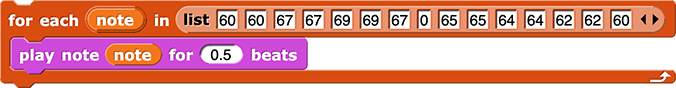
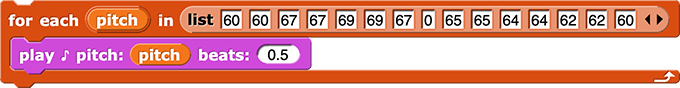
2.1 - in progress (mostly page 5)

Changed region(s): [[0.0311, 0.0, 1.0, 0.4318], [0.0311, 0.4318, 0.466, 0.7955], [0.963, 0.7955, 1.0, 0.9545]]

diff --git a/middle-school/student-pages/U2/L1/05-beat-repeat.html b/middle-school/student-pages/U2/L1/05-beat-repeat.html
@@ -3,143 +3,137 @@
 	<head>
 		<meta http-equiv="content-type" content="text/html; charset=utf-8" />
 		<script type="text/javascript" src="/bjc-r/llab/loader.js"></script>
-		<title>Unit 2 Lab 1: Song Player, Activity 2</title>
+		<title>Unit 2 Lab 1: Song Player, Activity 5</title>
 	</head>
 
 	<body>
+		<div class="todo"><h1>The first activity on this page is ready (enough) for review. --MF, 2/12/22</h1></div>
 		<h2>Beat Repeat</h2>
-		<div class="todo"><h1><em><strong>Not</strong></em> ready for review from here on...</h1></div>
-		<div class="todo">"iteration": <code>repeat</code>, <code>forever</code>, nested loops, <code>for each</code> 2-AP-12</div>
+		<div class="todo">I love this name, but I don't think it goes well with this particular page anymore. Thoughts? --MF, 2/12/22</div>
 		<div class="todo">
 			<ul>
 				<li><a href="https://docs.google.com/document/d/1ZGj6uApQUyQw3HByk-8tYOU-VPTwduLLbTMhW8LJrXw/edit#" title="Song Player Google Doc" target="_blank">Song Player Google Doc</a></li>
 				<li><a href="https://localhost/bjc-r/cur/programming/3-lists/optional-projects/4-music-project.html?topic=nyc_bjc%2F3-lists.topic&course=bjc4nyc.html&novideo&noassignment" title="CSP Optional Music Project" target="_blank">CSP Optional Music Project</a></li>
 			</ul>
 		</div>
-		<div class="todo">
-			TEACH on PAGE 2:<br />
-			<ol>
-				<li>FOREVER</li>
-				<li>FOR EACH</li>
-				<li>globals to store songs (as lists of notes)</li>
-				<li>set variable</li>
-			</ol>
-		</div>
 
-		<div class="learn"></div>
+		<div class="learn">In this activity, you will use a list to store the pitches of a song.</div>
 		<div class="forYouToDo">
 			<ol>
 				<li>If your project isn't open already, log in to Snap!, and open your "Song Player" project.</li>
 			</ol>
 		</div>
-		<p>Using the <code>repeat</code> block strategically can make your code shorter and easier to read. It's generally ideal to write shorter code that is easier to read because when something isn't working right, it's easier to find and fix the problem.</p>
+		<p>Using the <code>repeat</code> block strategically can make your code shorter and easier to read. It's generally a good idea to write shorter code that is easier to read because when something isn't working right, it's easier to find and fix the problem, or when you want to change it later or have someone else read it, that's easier too.</p>
 		<p>
 			<img class="imageRight nopadtb" src="/bjc-r/img/blocks/for-each.png" alt="for each (item) in 'list input slot' {
 }" title="for each (item) in 'list input slot' {
 }" />
 			Another way to simplify writing a song is to use a list to store the notes and then play each note in the list. You can use <code>for each</code> to run a command (or group of commands) for each item in a list. For example: <br />
-			<a class="js-run-v7 snap-project" href="/bjc-r/middle-school/prog/U2/lab01/example-for-each.xml" title="Example of For Each - Snap! project" target="_blank"><img class="indent" src="/bjc-r/middle-school/img/U2/lab01/example-for-each.png" alt="for each (note) in (list (60) (60) (67) (67) (69) (69) (67) (0) (65) (65) (64) (64) (62) (62) (60) (0)) {
-	play note (note) for (0.5) beats
-}" title="for each (note) in (list (60) (60) (67) (67) (69) (69) (67) (0) (65) (65) (64) (64) (62) (62) (60) (0)) {
-	play note (note) for (0.5) beats
+			<a class="js-run-v7 snap-project" href="/bjc-r/middle-school/prog/U2/lab01/example-for-each.xml" title="Example of For Each - Snap! project" target="_blank"><img class="indent" src="/bjc-r/middle-school/img/U2/lab01/example-for-each.png" alt="for each (pitch) in (list (60) (60) (67) (67) (69) (69) (67) (0) (65) (65) (64) (64) (62) (62) (60) (0)) {
+	play ♪ pitch: (pitch) beats: (0.5)
+}" title="for each (pitch) in (list (60) (60) (67) (67) (69) (69) (67) (0) (65) (65) (64) (64) (62) (62) (60) (0)) {
+	play ♪ pitch: (pitch) beats: (0.5)
 }" /></a>
 		</p>
 		<div class="forYouToDo">
 			<ol start="2">
-				<li>Create a simple song using <code>for each</code>.
+				<li>
+					Create a simple song using <code>for each</code>.
 					<ol>
 						<li>Drag a <code>for each</code> block into the scripting area.</li>
 						<li>Drag a <code>play ♪</code> block inside it.</li>
-						<li>Rename the <var>item</var> variable to <var>note</var> by clicking it, typing the new name, and clicking "OK."</li>
-						<li>Drag the <var>note</var> variable into the first input of the <code>play ♪</code> block.</li>
-						<li>Drag a <code>list</code> block into the list input slot of the <code>for each</code> block, add some notes, and click the script to test out your song as you build it.</li>
+						<li>
+							Rename the <var>item</var> variable to <var>pitch</var> by clicking it, typing the new name, and clicking "OK."
+							<div class="todo">An animation would be nice here one day. --MF, 2/11/22</div>
+						</li>
+						<li>Drag the <var>pitch</var> variable into the first input of the <code>play ♪</code> block. Dragging will make a copy of <var>pitch</var>, so you should see <var>pitch</var> in both places</li>
+						<li>
+							Drag a <code>list</code> block into the list input slot of the <code>for each</code> block, add some notes, and click the script to test out your song as you build it.
+							<div class="todo">An animation here too would be nice here one day. --MF, 2/11/22</div>
+						</li>
+						<div class="endnote">If you want to add or remove a pitch from your list, you don't have to move the other numbers around. To add a new slot, right-click the place where you want it to appear, and select "insert a slot." To remove a slot, right-click it, and select "delete slot." </div>
 					</ol>
 				</li>
+				<li>Create a new command block called <code>play song</code> that takes a list of notes as input and plays each note in the list.<div class="todo">I still need to add some scaffolding here about using the FOR EACH code they already have, removing the existing list, and dragging in the local var. --MF, 2/12/22</div></li>
 			</ol>
 		</div>
+		<div class="learn">In this activity, you used <code>for each</code> to play each pitch in a list.</div>
 		
-		<div class="todo">Maybe do transpose before the ADT and then let the ADT stuff be optional pages becuase it gets complex with the transpose mixed in.</div>
-
 		
+		
+		<div class="todo">
+			<h1><em><strong>Not</strong></em> ready for review from here on, but...</h1>
+			<p>Pamela, you might like to skim around. I'm debating whether to teach the ADT first so they can traverse a 2D list or to show them how to use MAP to transpose first. I'm leaning toward MAP first and letting 2D lists/ADTs be a later optional page (perhaps not even to be written now or perhaps just a "Take It Further" on the last page) since the goal of the course is functional, and MAP would align with that. There is no real need to teach ADTs although the context does naturally inspire it. --MF, 2/12/22</p>
+		</div>
 		<div class="todo"><hr /><h1>New Page</h1><hr /></div>
-		<div class="todo">introduce this ADT business</div>
-		<h2>Coordinating Data</h2>
-		<p>You've used the <code>for each</code> block to traverse a list and to <code>play ♪</code> for each note in a list, but it would be nice to be able to control the number of <var>beats</var> for which each note plays.</p>
-		<p>You can use the <code>note beat</code> block to store a bunch of notes and beats togther and 
-	
-
-
-
-		<div class="todo">Then have them build a <code>play notes</code> block</div>
-
-		<p>Another advantage of using a list to store your notes rather than a long set of <code>play ♪</code> blocks is that you can use higher order functions to process your list.</p>
-		<div class="todo">Building the transpose block...</div>
-
-
-
-		
-
-
-		<div class="todo">PAGE 2</div>
-
-		<p>It's playing the same note multiple times, right? That's because we need to tell the <code>play ♪</code> to play the current item from the list, not whatever number is in the dropdown now.</p>
+		<h2>Using Variables</h2>
+		<div class="todo">
+			TO TEACH:<br />
+			<ol>
+				<li>globals to store songs (as lists of notes)</li>
+				<li>set variable</li>
+			</ol>
+		</div>
+		<div class="learn">In this activity, you will use a variable to store a list of notes.</div>
+		<p>
+			In the <a href="/bjc-r/middle-school/student-pages/U1/L2/03-creating-editing-blocks.html?topic=middle-school%2F1-functions-data.topic&course=middle-school.html" title="Unit 1 Lab 2: Super Short Stories, Activity 3: Creating and Editing Blocks" target="_blank">Super Short Stories</a> lab, you began using <em>local variables</em> to access the inputs to a block you were editing. Those variables were only available within that block. When you need a variable to be available anywhere in your project, you can use a <em>global variable</em>.<br />
+			<img class="indent" src="/bjc-r/middle-school/img/U1/lab02/super-short-story-block-editor.png" alt="Super Short Story, feeling: (feeling) job: (job) action: (action 1) place: (place) action: (action 2) number: (number #) color: (color) plural animal: (animals) food: (food): {report (join words ('The') (feeling) (job) (action 1) ('through') (place) ('and') (action 2) ('over') (number) (color) (animals) ('eating') (food))}" title="Super Short Story, feeling: (feeling) job: (job) action: (action 1) place: (place) action: (action 2) number: (number #) color: (color) plural animal: (animals) food: (food): {report (join words ('The') (feeling) (job) (action 1) ('through') (place) ('and') (action 2) ('over') (number) (color) (animals) ('eating') (food))}" /><br />
+		</p>
+        <div class="vocabFullWidth">: <strong>Global Variable</strong>
+            <p>A <strong>global variable</strong> is a variable that is usable by all scripts in the program.</p>
+        </div>
+		<p>You can use a global variable to store the notes to a song.<br />
+		<img class="" src="/bjc-r/middle-school/img/U2/lab01/" alt="" title="" />
+		</p>
 		<div class="forYouToDo">
-			<ol start="5">
-				<li>
-					To do that, drag <var>item</var> from the <code>for each</code> block into that first input parameter. It'll actually make a copy of the block, so you should see <var>item</var> in both places:<br />
-					<img class="" src="/bjc-r/middle-school/img/U1/lab06/" alt="for each (item) in (list (60, 60, 67, 67, 69, 69, 67)) {
-	play note (item) for (0.5) beats
-}" title="for each (item) in (list (60, 60, 67, 67, 69, 69, 67)) {
-	play note (item) for (0.5) beats
-}" />
-				</li>
-				<li>Click it now! Do you hear a little Twinkle, Twinkle? Woo! 🎉 ⭐ 🤩</li>
-			</ol>
-		</div>
-	
-		<h3>Making a new command block</h3>
-	<p>Now that we have this neat seat of blocks for playing multiple notes, let's turn that into a block so that we can easily play lines of different songs.</p>
-	<div class="forYouToDo">
 			<ol>
+				<li>If your project isn't open already, log in to Snap!, and open your "Song Player" project.</li>
 				<li>
-					Click "Make a block" in the left-hand side to bring up the new block editor.<br />
-					<img class="" src="/bjc-r/middle-school/img/U1/lab06/" alt="" title="" />
+					Create a global variable to store your song. Here's how.
+					<div class="narrower">
+						<h4><strong>Making a Global Variable</strong></h4>
+						<div class="todo">Still needs edits --MF, 2/12/22</div>
+						<ol type="a">
+							<li>Click <img class="inline" src="/bjc-r/img/1-introduction/make-a-variable.png" alt="make a variable button" title="make a variable button" />  in the Variables palette.  (It's not a block; you can't drag it into the scripting area.)</li>
+							<li>Type the title for your variable. (Use the name of the song or something else to help you remember it.)</li>
+							<li>Click "OK."</li>
+						</ol>
+					</div>
 				</li>
-				<li>Enter a name for the block, like "play line". Make sure "Command" is selected below the name, then click OK.</li>
-				<li>
-					Now the block editor should pop up. First the block needs an input parameter, the list of notes to play. Click the plus sign at the end of the name. <br />
-					<img class="" src="/bjc-r/middle-school/img/U1/lab06/" alt="" title="" />
-				</li>
-				<li>Type a name for the parameter like "notes". Make sure "Input name" is selected below the name, then click OK.</li>
-				<li>The inside of the block is still empty, so it doesn't yet know what to do with the notes input. Drag the <code>for each</code> block from the main area into the block editor and attach it under the block header. It should snap in place.</li>
-				<li>
-					The <code>for each</code> is still playing the notes from Twinkle, Twinkle, but this block should be able to play any list of notes. Delete the current list of notes and drag the input parameter into that block instead. It should look like this:<br />
-					<img class="" src="/bjc-r/middle-school/img/U1/lab06/" alt="" title="" />
-				</li>
-				<li>Leave the block editor so that you can try out your new block! Drag a copy into the main area and put a list of notes in the blank.</li>
-				<li>Here's the Twinkle, Twinkle sequence again (enter the numbers without the spaces and dashes): <pre>60 60 67 67 69 69 67</pre></li>
-				<li>Click the block and you should hear the notes being played out. 🎶</li>
+				<li>Use your global variable in your <code>play song</code> block.</li>
+				<li>Make another global var song.</li>
+				<li>Show/hide global vars with show/hide blocks.</li>
+			<div class="todo">
+				These need alt-title text, but this is the general idea...<br />
+				<img class="indent" src="/bjc-r/middle-school/img/U2/lab01/set-mary-lamb.png" alt="" title="" /><br />
+				<img class="indent" src="/bjc-r/middle-school/img/U2/lab01/play-song-mary-lamb.png" alt="" title="" /><br />
+				Next page...<br />
+				<img class="indent" src="/bjc-r/middle-school/img/U2/lab01/play-song-map-mary-lamb.png" alt="" title="" />
+			</div>
+				
 			</ol>
 		</div>
-		<p>By making the block, you've <em>generalized</em> the procedure of playing a sequence of notes. That means you can easily play any sequence of notes, and all you have to do is drag another copy of your new block.</p>
 		<div class="ifTime show">
-			<ol>
+			<ol start="6">
 				<li>
-					Here are more sequences of notes to try out (enter the numbers without the spaces and dashes):
+					Here are more sequences of notes to try out (enter the numbers without the spaces):
 					<pre>65 65 64 64 62 62 60</pre>
 					<pre>64 62 60 62 64 64</pre>
 				</li>
 				<li>If you or your classmates are musically inclined, you can come up with more sequences to play!</li>
-				<li></li>
 			</ol>
 		</div>
-	
-		<h3>Transforming note sequences</h3>
+		<div class="learn">In this activity, you stored notes in variables and...</div>
+
+		
+		<div class="todo"><hr /><h1>New Page</h1><hr /></div>
+		<h2>Song <code>Map</code>per</h2>
+		<p>Another advantage of using a list to store your notes rather than a long set of <code>play ♪</code> blocks is that you can use higher order functions to process your list.</p>
 		<p>In music, notes are part of a scale, and a song can be played higher up a scale or lower down a scale. So if someone naturally has a deep voice, they can sing Twinkle, Twinkle at an octave lower than usual, or if someone has a high voice, they can sing at an octave higher than usual.</p>
 		<p>Each octave is 12 notes higher than the previous octave, since there are 12 notes in a scale. So we can add 12 to each note to find the higher version of the note, or subtract 12 to find the lower.</p>
 		<p>This is a perfect opportunity to use the <code>map</code> block. It's a block that operates on lists, applying an operation to each item in a list, and reporting back a list with the transformed items.</p>
 		<div class="forYouToDo">
-			<ol start="13">
+			<ol start="1">
 				<li>Drag the <code>map</code> block into the main area. Drag one of your note sequence lists into the list icon on the block, so the <code>map</code> block knows what list it's transforming.</li>
 				<li>
 					Now the question is, how do you want to transform each note? You can put any operation in the first blank, anything that reports a value. I suggest either a <code>+</code> block or <code>-</code> block. Leave one of the blanks empty and put 12 in the other blank. Something like this:<br />
@@ -148,6 +142,16 @@
 				<li>Finally, drag this whole map block into one of the play line blocks. Click the block to hear what happens. Change the + to a -, or change the amount being added/subtracted, and click again to hear the difference. Try it with your other songs too!</li>
 			</ol>
 		</div>
+		
+		<div class="todo"><hr /><h1>New Page? Or a "Take It Further"?</h1><hr /></div>
+		<h2>Coordinating Data</h2>
+		
+		<div class="todo">Maybe do transpose before the ADT and then let the ADT stuff be optional pages because it gets complex with the transpose mixed in.</div>
+		<p>You've used the <code>for each</code> block to traverse a list and to <code>play ♪</code> for each note in a list, but it would be nice to be able to control the number of <var>beats</var> for which each note plays.</p>
+		<p>You can use the <code>note beat</code> block to store a bunch of notes and beats together and 
+	
+
+		
 
 		<div class="learn"></div>
 	

diff --git a/middle-school/student-pages/U2/L1/03-programming-styles.html b/middle-school/student-pages/U2/L1/03-programming-styles.html
@@ -56,10 +56,10 @@ play ♪ pitch: (59) beats: (0.5)
 
 		<div class="forYouToDo">
 			<ol>
+				<div class="comment">Note to Mary for later: Older instantiations of this image in <a href="/bjc-r/middle-school/student-pages/U1/L2/02-refining-the-story.html?topic=middle-school%2F1-functions-data.topic&course=middle-school.html" title="Unit 1 Lab 2 Activity 2: Refining the Story">Sparks 1.2.2</a> and <a href="/bjc-r/cur/programming/1-introduction/2-gossip-and-greet/4-making-a-new-block.html?topic=nyc_bjc%2F1-intro-loops.topic&course=bjc4nyc.html&novideo&noassignment">CSP 1.2.4</a> need to be updated for the new palette list ordering. Also the "text box label 'Type a title for your block'" and "label 'Select a shape'" are both gone now. And "with no label of which 'for all sprites' is selected" could be deleted. --MF, 2/9/22</div><img class="imageRight noshadow" src="/bjc-r/middle-school/img/U2/lab01/make-a-block-mystery-song-labels.png" alt="image of 'Make a block' dialog box with 10 palette menus (Motion, Looks, Sound, Pen, Other, Control, Sensing, Operators, Variables, Lists) of which Sound is selected; a text box in which 'mystery song' has been written; three block shape options (puzzle-shaped/'Command', oval/'Reporter', and hexagonal/'Predicate') of which 'Command' is selected; two radio boxes ('for all sprites', which is checked, and 'for this sprite only', which is not checked); and two buttons ('OK' and 'Cancel')" title="image of 'Make a block' dialog box with 10 palette menus (Motion, Looks, Sound, Pen, Other, Control, Sensing, Operators, Variables, Lists) of which Sound is selected; a text box in which 'mystery song' has been written; three block shape options (puzzle-shaped/'Command', oval/'Reporter', and hexagonal/'Predicate') of which 'Command' is selected; two radio boxes ('for all sprites', which is checked, and 'for this sprite only', which is not checked); and two buttons ('OK' and 'Cancel')" />
 				<li>If your project isn't open already, log in to Snap!, and open your "Song Player" project.</li>
 				<li>
 					Create a new command block called <code>mystery song</code>.
-					<div class="comment">Note to Mary for later: Older instantiations of this image in <a href="/bjc-r/middle-school/student-pages/U1/L2/02-refining-the-story.html?topic=middle-school%2F1-functions-data.topic&course=middle-school.html" title="Unit 1 Lab 2 Activity 2: Refining the Story">Sparks 1.2.2</a> and <a href="/bjc-r/cur/programming/1-introduction/2-gossip-and-greet/4-making-a-new-block.html?topic=nyc_bjc%2F1-intro-loops.topic&course=bjc4nyc.html&novideo&noassignment">CSP 1.2.4</a> need to be updated for the new palette list ordering. Also the "text box label 'Type a title for your block'" and "label 'Select a shape'" are both gone now. And "with no label of which 'for all sprites' is selected" could be deleted. --MF, 2/9/22</div><img class="imageRight noshadow" src="/bjc-r/middle-school/img/U2/lab01/make-a-block-mystery-song-labels.png" alt="image of 'Make a block' dialog box with 10 palette menus (Motion, Looks, Sound, Pen, Other, Control, Sensing, Operators, Variables, Lists) of which Sound is selected; a text box in which 'mystery song' has been written; three block shape options (puzzle-shaped/'Command', oval/'Reporter', and hexagonal/'Predicate') of which 'Command' is selected; two radio boxes ('for all sprites', which is checked, and 'for this sprite only', which is not checked); and two buttons ('OK' and 'Cancel')" title="image of 'Make a block' dialog box with 10 palette menus (Motion, Looks, Sound, Pen, Other, Control, Sensing, Operators, Variables, Lists) of which Sound is selected; a text box in which 'mystery song' has been written; three block shape options (puzzle-shaped/'Command', oval/'Reporter', and hexagonal/'Predicate') of which 'Command' is selected; two radio boxes ('for all sprites', which is checked, and 'for this sprite only', which is not checked); and two buttons ('OK' and 'Cancel')" />
 					<ol>
 						<li>
 							Right-click in an empty spot in the Scripts area and choose "make a block..." <br />
@@ -73,12 +73,16 @@ play ♪ pitch: (59) beats: (0.5)
 					</ol>
 				</li>
 			</ol>
+			<p style="clear: both; height: 0px;"></p>
 		</div>
 		
 		<p>When you create a reporter, the block editor opens <img class="inline-block" src="/bjc-r/img/blocks/report.png" alt="report" title="report" /> attached to the hat block, and the input to <code>report</code> will be the value reported by the new reporter. When you create a command, the block editor opens with only the hat block, and the blocks attached below it will run (in order) when the new command is run.</p>
 
 		<div class="forYouToDo">
 			<ol start="3">
+				<div class="vocab"><strong>: Abstraction</strong>
+					<p>Hiding away the details of how code works (such as by moving it inside a single block) is a form of <em>abstraction</em>.</p>
+				</div>
 				<li>Inside the <code>mystery song</code> block, either build a new song for someone else to guess or drag in a song you have already created and attach it to the <code>mystery song</code> hat block.</li>
 				<div class="todo">Note to Mary for later: An animation of dragging in a song would be nice here. --MF, 2/9/22</div>
 				<li>Play your mystery song for someone else, and see if they can guess what it is; guess the song for someone else.</li>
@@ -87,9 +91,6 @@ play ♪ pitch: (59) beats: (0.5)
 			<p style="clear: both; height: 0px;"></p>
 		</div>
 		
-		<div class="vocabFullWidth"><strong>: Abstraction</strong>
-			<p>Hiding away the details of how code works (such as by moving it inside a single block) is a form of <em>abstraction</em>.</p>
-		</div>
 		
 		<div class="ifTime show">
 			<ol start="6">

diff --git a/middle-school/teaching-guide/U2/01-song-player.html b/middle-school/teaching-guide/U2/01-song-player.html
@@ -91,6 +91,7 @@ Lesson Plan
 		<h3>Correlation with CSTA Standards<a name="Standards" class="anchor">&nbsp;</a></h3>
 		<div class="Standards">
 			<ul>
+				<div class="todo">"iteration": <code>repeat</code>, <code>forever</code>, nested loops, <code>for each</code> 2-AP-12</div>
 				<li><strong>2-AP-14: Create procedures with parameters to organize code and make it easier to reuse.</strong> Students should create procedures and/or functions that are used multiple times within a program to repeat groups of instructions. These procedures can be generalized by defining parameters that create different outputs for a wide range of inputs. For example, a procedure to draw a circle involves many instructions, but all of them can be invoked with one instruction, such as “drawCircle.” By adding a radius parameter, the user can easily draw circles of different sizes.</li>
 			</ul>
 		</div>			
